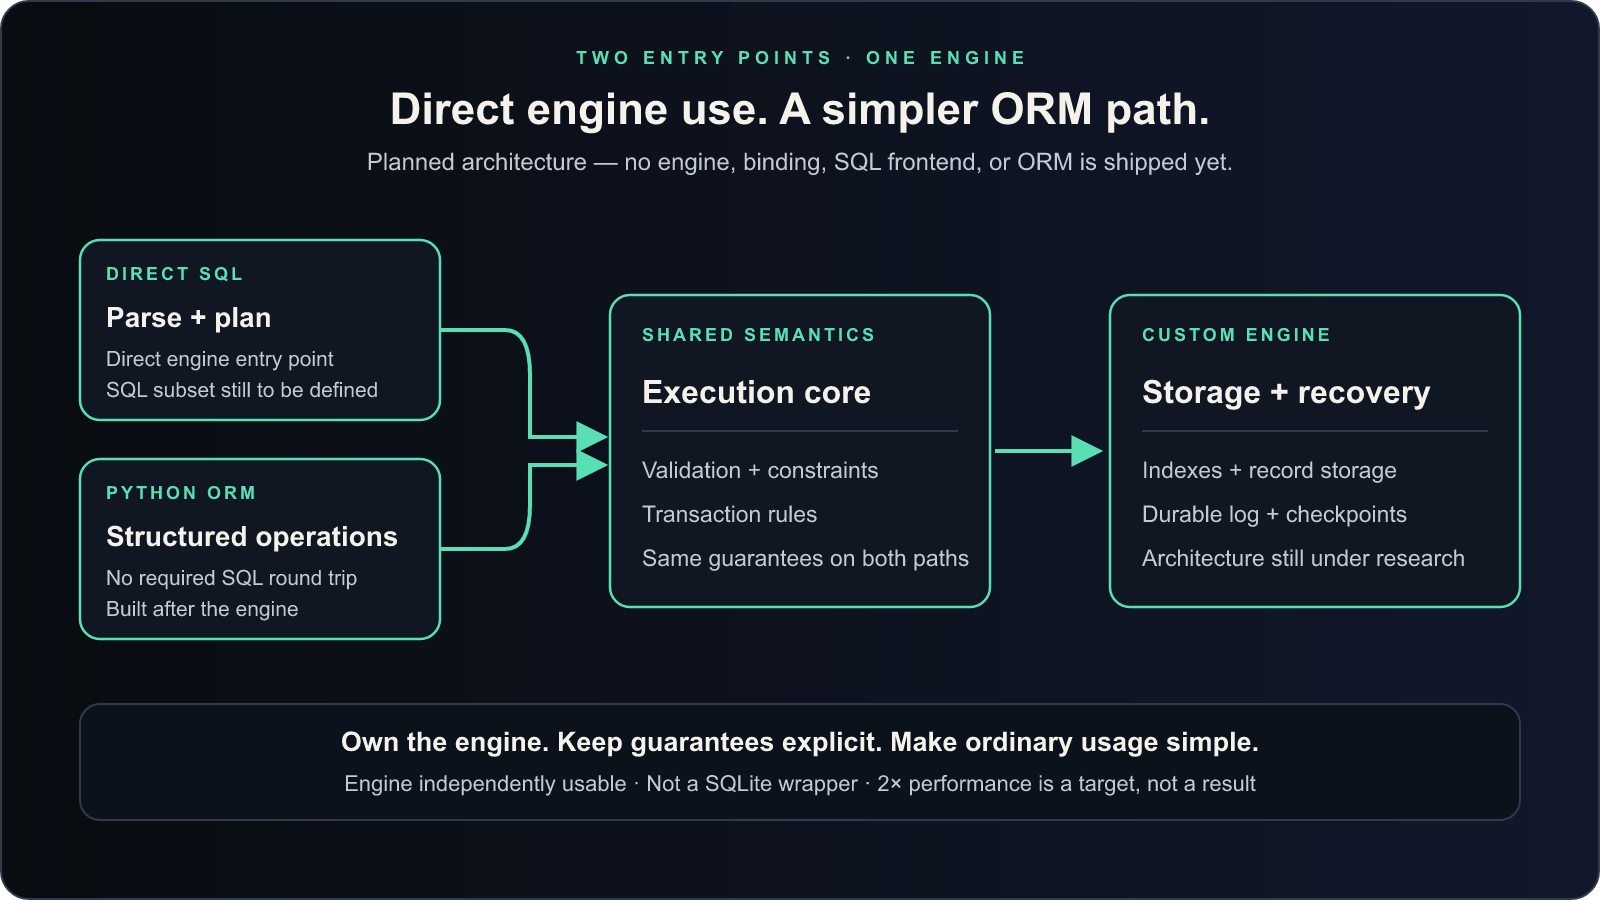
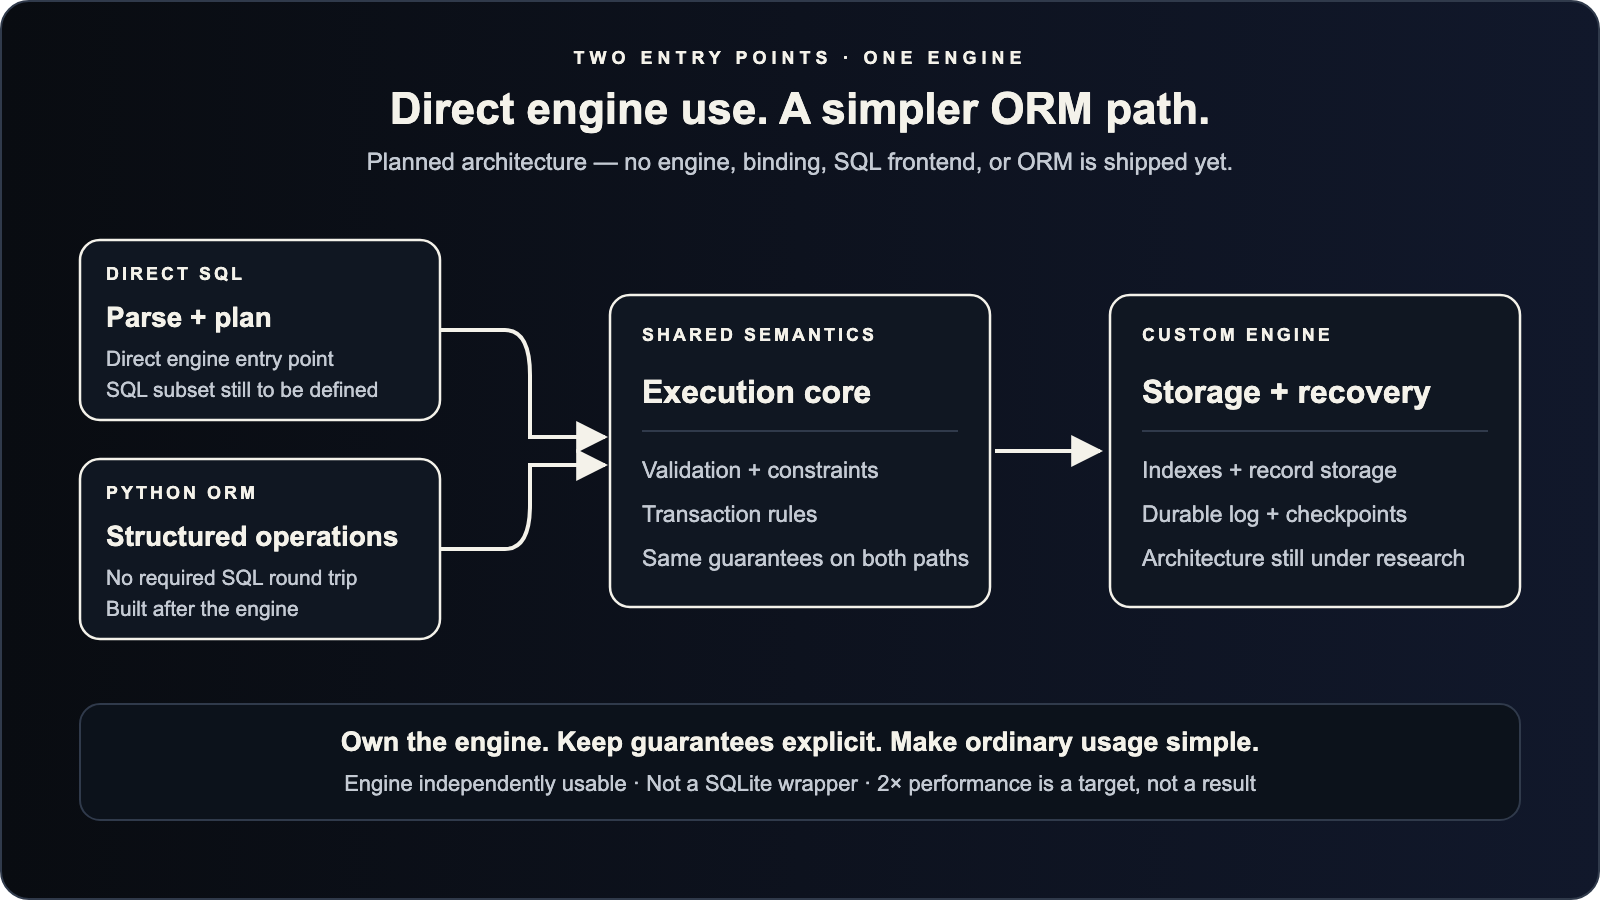
Apply RefPot off-white identity (#5)
* Apply RefPot off-white identity

* fix: preserve readable primary action contrast in dark mode

* fix: keep RefPot header mark visible in light theme

diff --git a/website/src/styles/custom.css b/website/src/styles/custom.css
@@ -16,10 +16,10 @@
   --mp-border: #c6cbd2;
   --mp-control-boundary: #616b78;
   --mp-error: #a4262b;
-  --mp-accent: #087a58;
+  --mp-accent: #49515e;
   --mp-accent-ink: #ffffff;
-  --mp-selected: #f3ead6;
-  --mp-focus: #087a58;
+  --mp-selected: #e6e8eb;
+  --mp-focus: #49515e;
   --mp-radius: 6px;
   --mp-header-height: 64px;
   --mp-menu-button-size: 44px;
@@ -27,9 +27,10 @@
   --mp-content-max: 1200px;
   --sl-font: var(--mp-font);
   --sl-font-mono: var(--mp-font-code);
-  --sl-color-accent-low: #f3ead6;
+  --sl-color-accent-low: #e6e8eb;
   --sl-color-accent: var(--mp-accent);
-  --sl-color-accent-high: #34270f;
+  --sl-color-accent-high: #181a1d;
+  --sl-color-text-accent: #49515e;
   --sl-color-bg: var(--mp-canvas);
   --sl-color-bg-nav: var(--mp-surface);
   --sl-color-bg-sidebar: var(--mp-raised);
@@ -49,18 +50,20 @@
   --mp-border: #555d68;
   --mp-control-boundary: #aeb4bc;
   --mp-error: #ff9b9b;
-  --mp-accent: #39c99a;
-  --mp-accent-ink: #101614;
-  --mp-selected: #393326;
-  --mp-focus: #39c99a;
-  --sl-color-accent-low: #393326;
+  --mp-accent: #f4f2ea;
+  --mp-accent-ink: #181a1d;
+  --mp-selected: #35383d;
+  --mp-focus: #f4f2ea;
+  --sl-color-accent-low: #35383d;
   --sl-color-accent: var(--mp-accent);
-  --sl-color-accent-high: #a8f2d6;
+  --sl-color-accent-high: #f4f2ea;
+  --sl-color-text-accent: #f4f2ea;
   --sl-color-bg: var(--mp-canvas);
   --sl-color-bg-nav: var(--mp-surface);
   --sl-color-bg-sidebar: var(--mp-raised);
   --sl-color-text: var(--mp-ink);
 }
+:root[data-theme='dark'] .sl-markdown-content a:not(:where(.not-content *)):not(.framework-action):not(.creator-attribution) { color: #f4f2ea; }
 html, body { font-family: var(--mp-font); font-size: 16px; line-height: 1.6; background: var(--mp-canvas); color: var(--mp-ink); }
 a.creator-attribution { display:inline-flex; align-items:center; min-height:44px; padding:0 .5rem; margin:0 0 1.5rem; border-radius:var(--mp-radius); font-size:14px; color:var(--mp-ink); font-weight:600; text-underline-offset:.2em; }
 body { margin: 0; }

diff --git a/website/tests/browser/site.spec.ts b/website/tests/browser/site.spec.ts
@@ -27,6 +27,11 @@ for (const width of [1280, 768, 390, 320]) {
         const creator=document.querySelector('.creator-attribution')!.getBoundingClientRect();
         return { overflow:document.documentElement.scrollWidth>innerWidth, copy:{left:copy.left,right:copy.right,top:copy.top,bottom:copy.bottom}, art:{left:art.left,top:art.top}, creatorTop:creator.top, creatorBottom:creator.bottom, actionsBottom:actions.bottom };
       });
+      const isDark = theme === 'dark';
+      await expect(page.locator('header .refpot-mark')).toHaveCSS('filter', isDark ? 'none' : 'brightness(0.31)');
+      await expect(page.locator('.framework-action.primary')).toHaveCSS('color', isDark ? 'rgb(24, 26, 29)' : 'rgb(255, 255, 255)');
+      await expect(page.locator('.framework-action.primary')).toHaveCSS('background-color', isDark ? 'rgb(244, 242, 234)' : 'rgb(73, 81, 94)');
+      await expect(page.locator('.sl-markdown-content p a[href="/design/"]')).toHaveCSS('color', isDark ? 'rgb(244, 242, 234)' : 'rgb(73, 81, 94)');
       expect(measured.overflow).toBe(false);
       expect(measured.creatorTop).toBeGreaterThanOrEqual(measured.actionsBottom);
       expect(measured.creatorBottom).toBeLessThan(900);
@@ -68,6 +73,6 @@ test('Auto follows live OS changes, metadata and the social raster are real',asy
   await expect(page.locator('link[rel="canonical"]')).toHaveAttribute('href','https://refpot.modepot.io/');
   const data=JSON.parse(await page.locator('script[type="application/ld+json"]').innerText());
   expect(data['@graph'].map((item:{'@type':string})=>item['@type'])).toEqual(['SoftwareSourceCode','WebSite']);
-  const image=await page.request.get('/social-card.png'); expect(image.status()).toBe(200);
+  const image=await page.request.get('/social-card.png?v=offwhite-1'); expect(image.status()).toBe(200);
   const bytes=await image.body(); expect([bytes.readUInt32BE(16),bytes.readUInt32BE(20)]).toEqual([1200,630]);
 });

diff --git a/tests/test_presentation.py b/tests/test_presentation.py
@@ -13,6 +13,29 @@ FAMILY_FLASK = (
 
 
 class PresentationTests(unittest.TestCase):
+    def test_refpot_identity_palette_and_canonical_geometry_parity(self):
+        sources = [ROOT / "docs/assets/refpot-lockup.svg", ROOT / "docs/assets/refpot-execution.svg"]
+        copies = [ROOT / "website/public/refpot-lockup.svg", ROOT / "website/public/refpot-execution.svg"]
+        for source, copy in zip(sources, copies):
+            self.assertEqual(source.read_bytes(), copy.read_bytes())
+            text = source.read_text()
+            self.assertNotRegex(text, r"(?i)#58dfb4|#39c99a")
+            self.assertIn("#F4F2EA", text)
+        mark = (ROOT / "website/public/refpot-mark.svg").read_text()
+        self.assertNotIn("#58DFB4", mark)
+        self.assertIn("#F4F2EA", mark)
+        self.assertIn("#F4F2EA", (ROOT / "website/public/social-card.svg").read_text())
+        css = (ROOT / "website/src/styles/custom.css").read_text()
+        self.assertIn("--mp-accent: #49515e", css)
+        self.assertIn("--mp-accent: #f4f2ea", css)
+        for stale in ("#58DFB4", "#39c99a", "#087a58", "#f3ead6", "#393326"):
+            self.assertNotIn(stale.lower(), css.lower())
+        self.assertIn("--mp-selected: #e6e8eb", css)
+        self.assertIn("--mp-selected: #35383d", css)
+        self.assertIn("--sl-color-text-accent: #49515e", css)
+        self.assertIn("--sl-color-text-accent: #f4f2ea", css)
+        self.assertIn("--sl-color-accent-high: #f4f2ea", css)
+
     def test_family_identity(self):
         svg = ET.parse(ROOT / "docs/assets/refpot-lockup.svg").getroot()
         self.assertEqual(svg.attrib["viewBox"], "0 0 1200 900")

diff --git a/README.md b/README.md
@@ -15,7 +15,7 @@
 </p>
 
 <p align="center">
-  <img src="https://img.shields.io/badge/Status-Research%20%26%20design-58DFB4" alt="Status: research and design">
+  <img src="https://img.shields.io/badge/Status-Research%20%26%20design-49515e" alt="Status: research and design">
   <a href="https://discord.gg/u3AANZr6RG"><img src="https://img.shields.io/badge/Discord-Join%20ModePot-5865F2?logo=discord&amp;logoColor=white" alt="Join the ModePot Discord"></a>
   <a href="https://github.com/tugrulguner/refpot"><img src="https://img.shields.io/github/stars/tugrulguner/refpot?style=flat" alt="GitHub stars"></a>
 </p>

diff --git a/website/public/docs/project-readme.md b/website/public/docs/project-readme.md
@@ -15,7 +15,7 @@
 </p>
 
 <p align="center">
-  <img src="https://img.shields.io/badge/Status-Research%20%26%20design-58DFB4" alt="Status: research and design">
+  <img src="https://img.shields.io/badge/Status-Research%20%26%20design-49515e" alt="Status: research and design">
   <a href="https://discord.gg/u3AANZr6RG"><img src="https://img.shields.io/badge/Discord-Join%20ModePot-5865F2?logo=discord&amp;logoColor=white" alt="Join the ModePot Discord"></a>
   <a href="https://github.com/tugrulguner/refpot"><img src="https://img.shields.io/github/stars/tugrulguner/refpot?style=flat" alt="GitHub stars"></a>
 </p>
